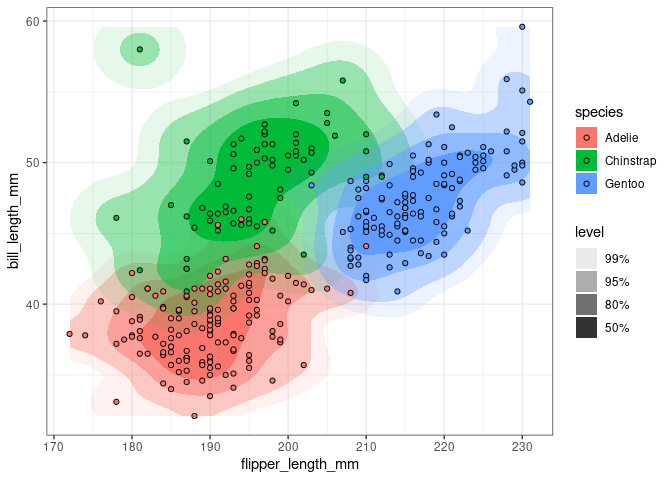
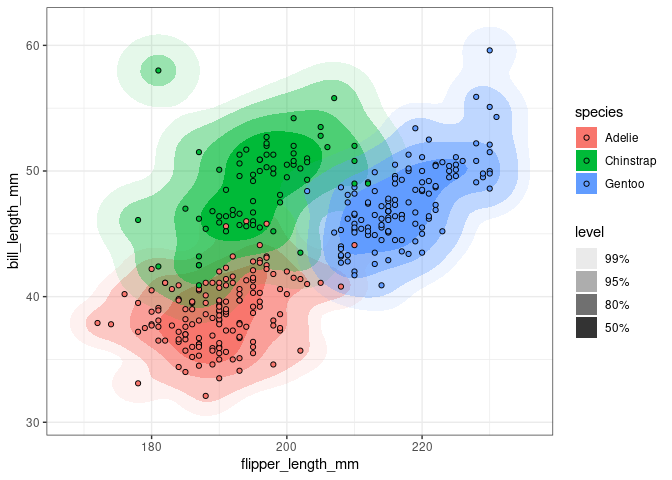
Update README examples with `xlim` and `ylim` specifications -- necessary to avoid clipping now that coordinate expansions are not computed by default

diff --git a/README.md b/README.md
@@ -69,7 +69,7 @@ illustrate this with the `penguins` data from
 library("palmerpenguins")
 
 ggplot(penguins, aes(flipper_length_mm, bill_length_mm, fill = species)) +
-  geom_hdr() +
+  geom_hdr(xlim = c(160, 240), ylim = c(30, 70)) +
   geom_point(shape = 21)
 ```
 
@@ -83,7 +83,7 @@ To alleviate overplotting, we can use `geom_hdr_lines()` or facet:
 
 ``` r
 ggplot(penguins, aes(flipper_length_mm, bill_length_mm, color = species)) +
-  geom_hdr_lines() +
+  geom_hdr_lines(xlim = c(160, 240), ylim = c(30, 70)) +
   geom_point(size = .5)
 ```
 
@@ -95,7 +95,7 @@ ggplot(penguins, aes(flipper_length_mm, bill_length_mm, color = species)) +
 
 ``` r
 ggplot(penguins, aes(flipper_length_mm, bill_length_mm, fill = species)) +
-  geom_hdr() +
+  geom_hdr(xlim = c(160, 240), ylim = c(30, 70)) +
   geom_point(shape = 21) +
   facet_wrap(vars(species))
 ```
@@ -113,11 +113,15 @@ setting `alpha = 1`.
 
 ``` r
 ggplot(faithful) +
-  geom_hdr(aes(eruptions, waiting, fill = after_stat(level)), alpha = 1)
+  geom_hdr(aes(eruptions, waiting, fill = after_stat(level)), alpha = 1, 
+           xlim = c(0, 8), ylim = c(30, 110))
 
 ggplot(faithful) +
-  geom_hdr_lines(aes(eruptions, waiting, color = after_stat(level)), alpha = 1)
+  geom_hdr_lines(aes(eruptions, waiting, color = after_stat(level)), alpha = 1, 
+                 xlim = c(0, 8), ylim = c(30, 110))
 ```
+
+<img src="man/figures/README-ex_after_stat-1.png" width="50%" /><img src="man/figures/README-ex_after_stat-2.png" width="50%" />
 
 #### Different density estimators
 
